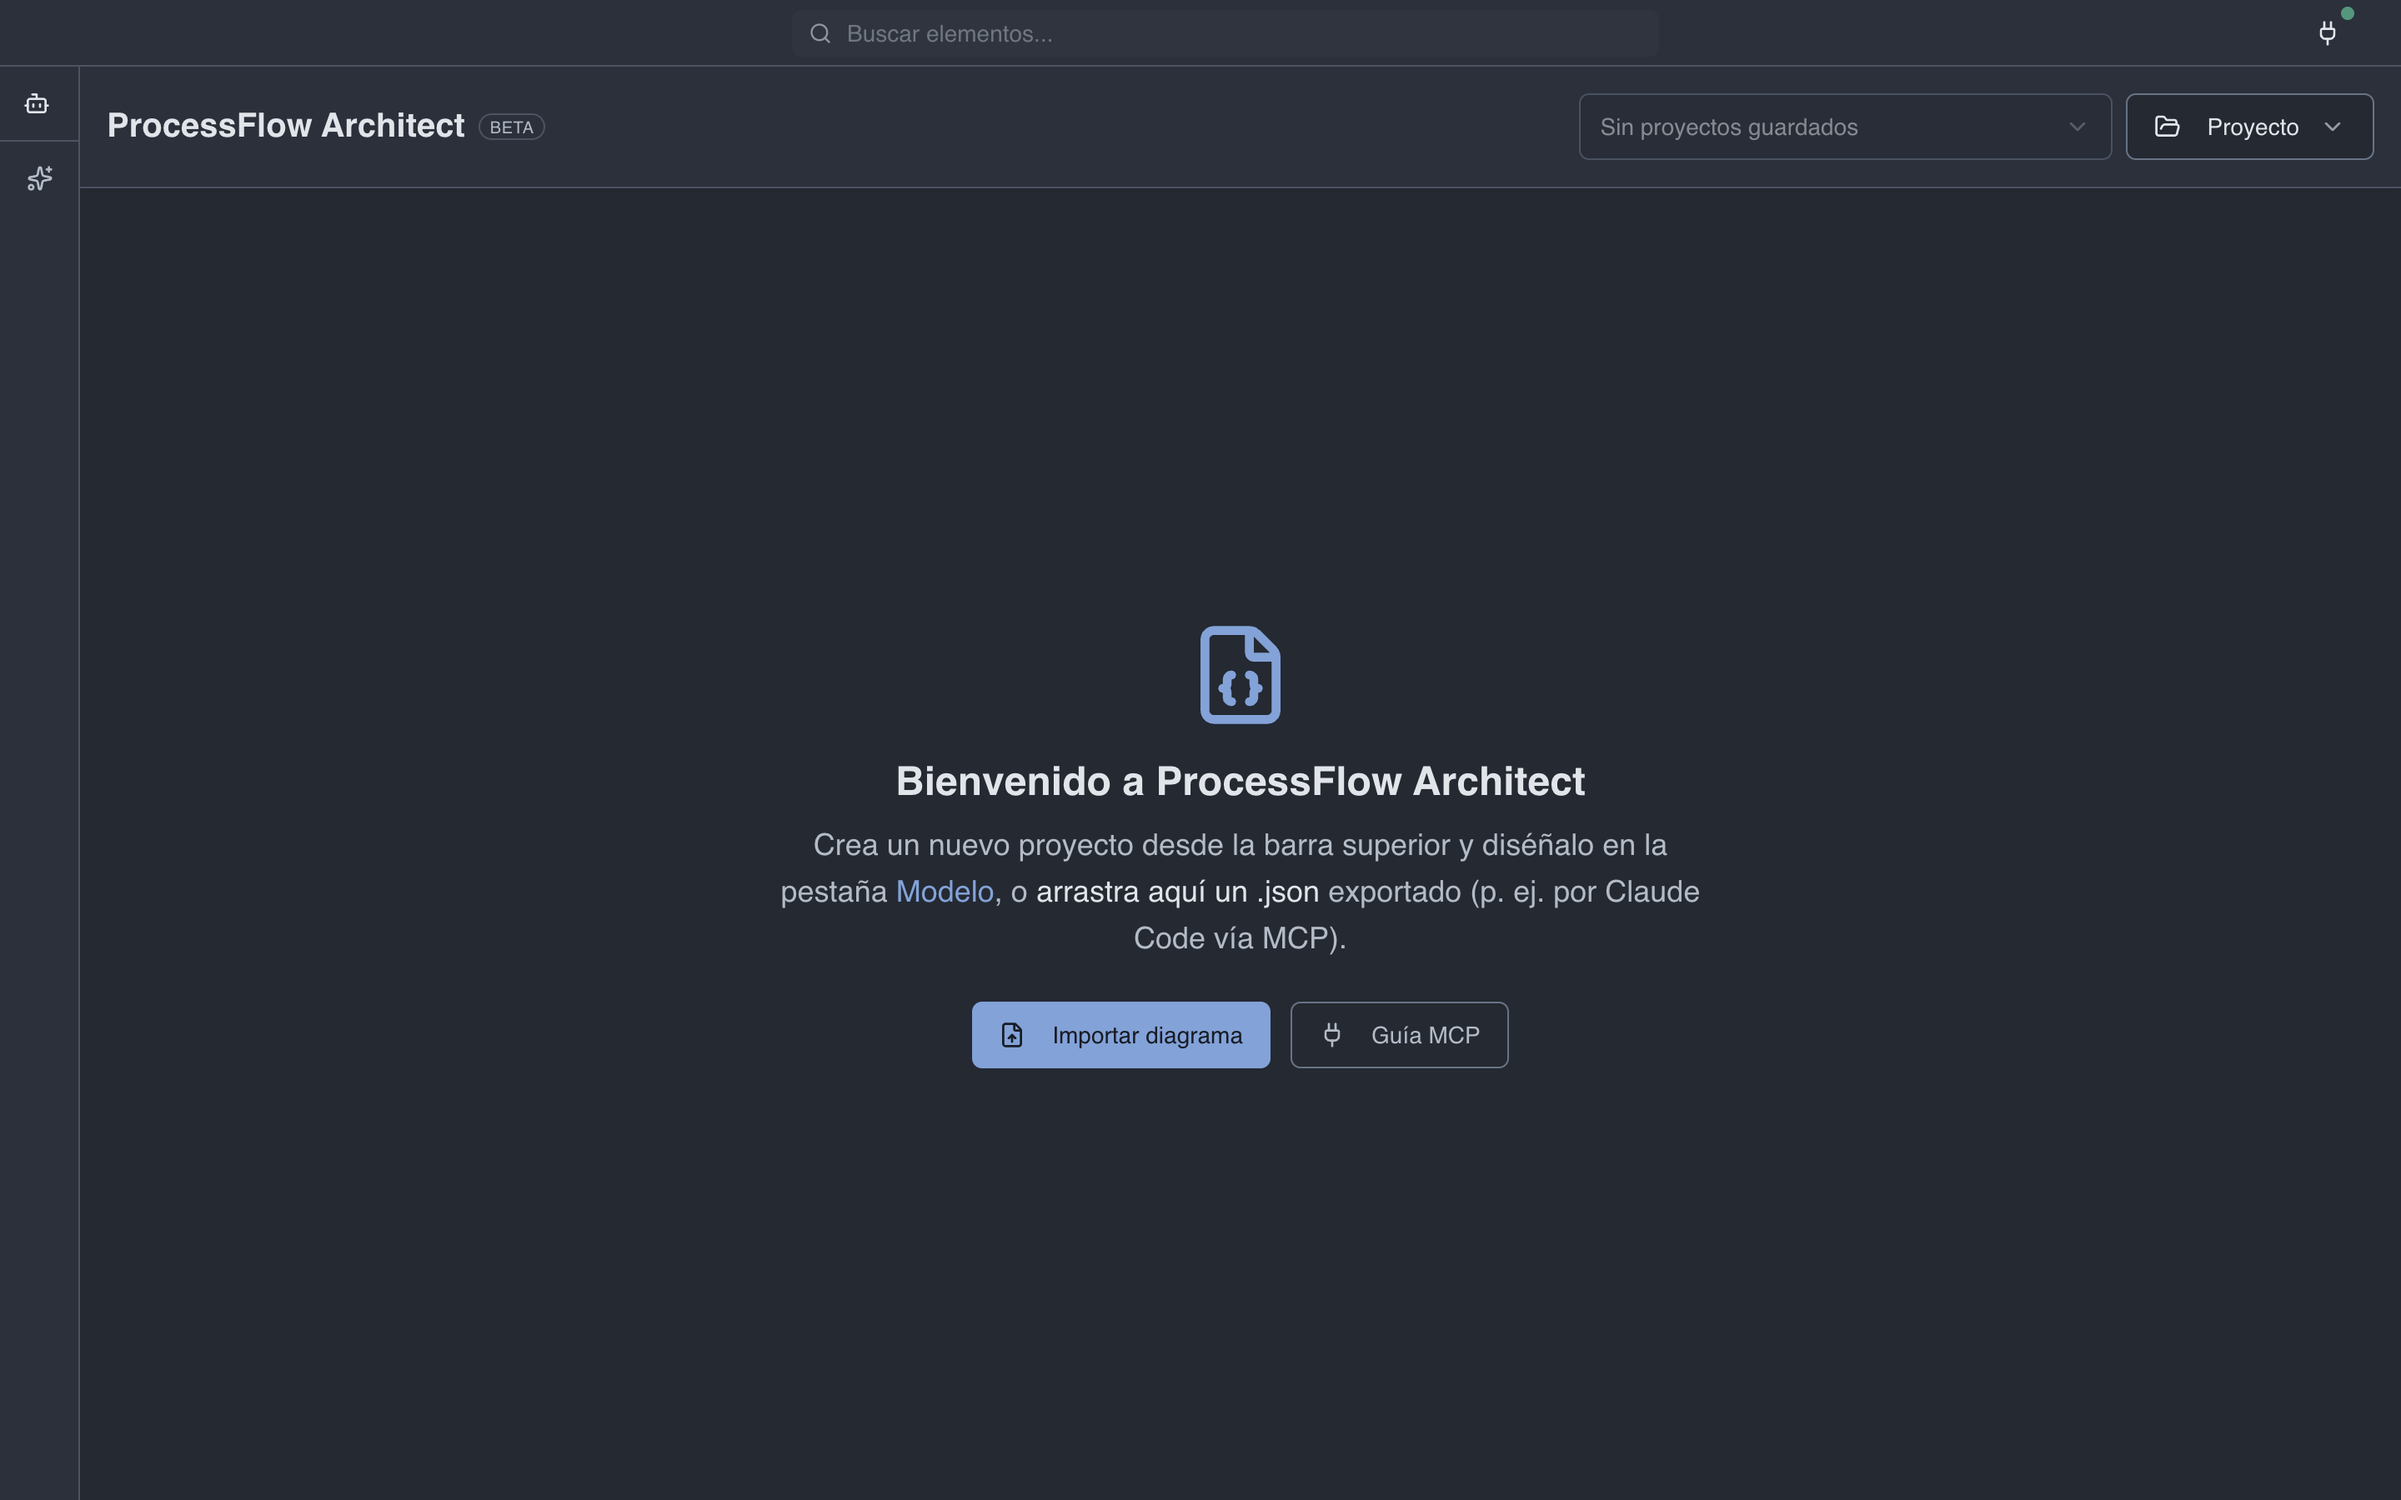
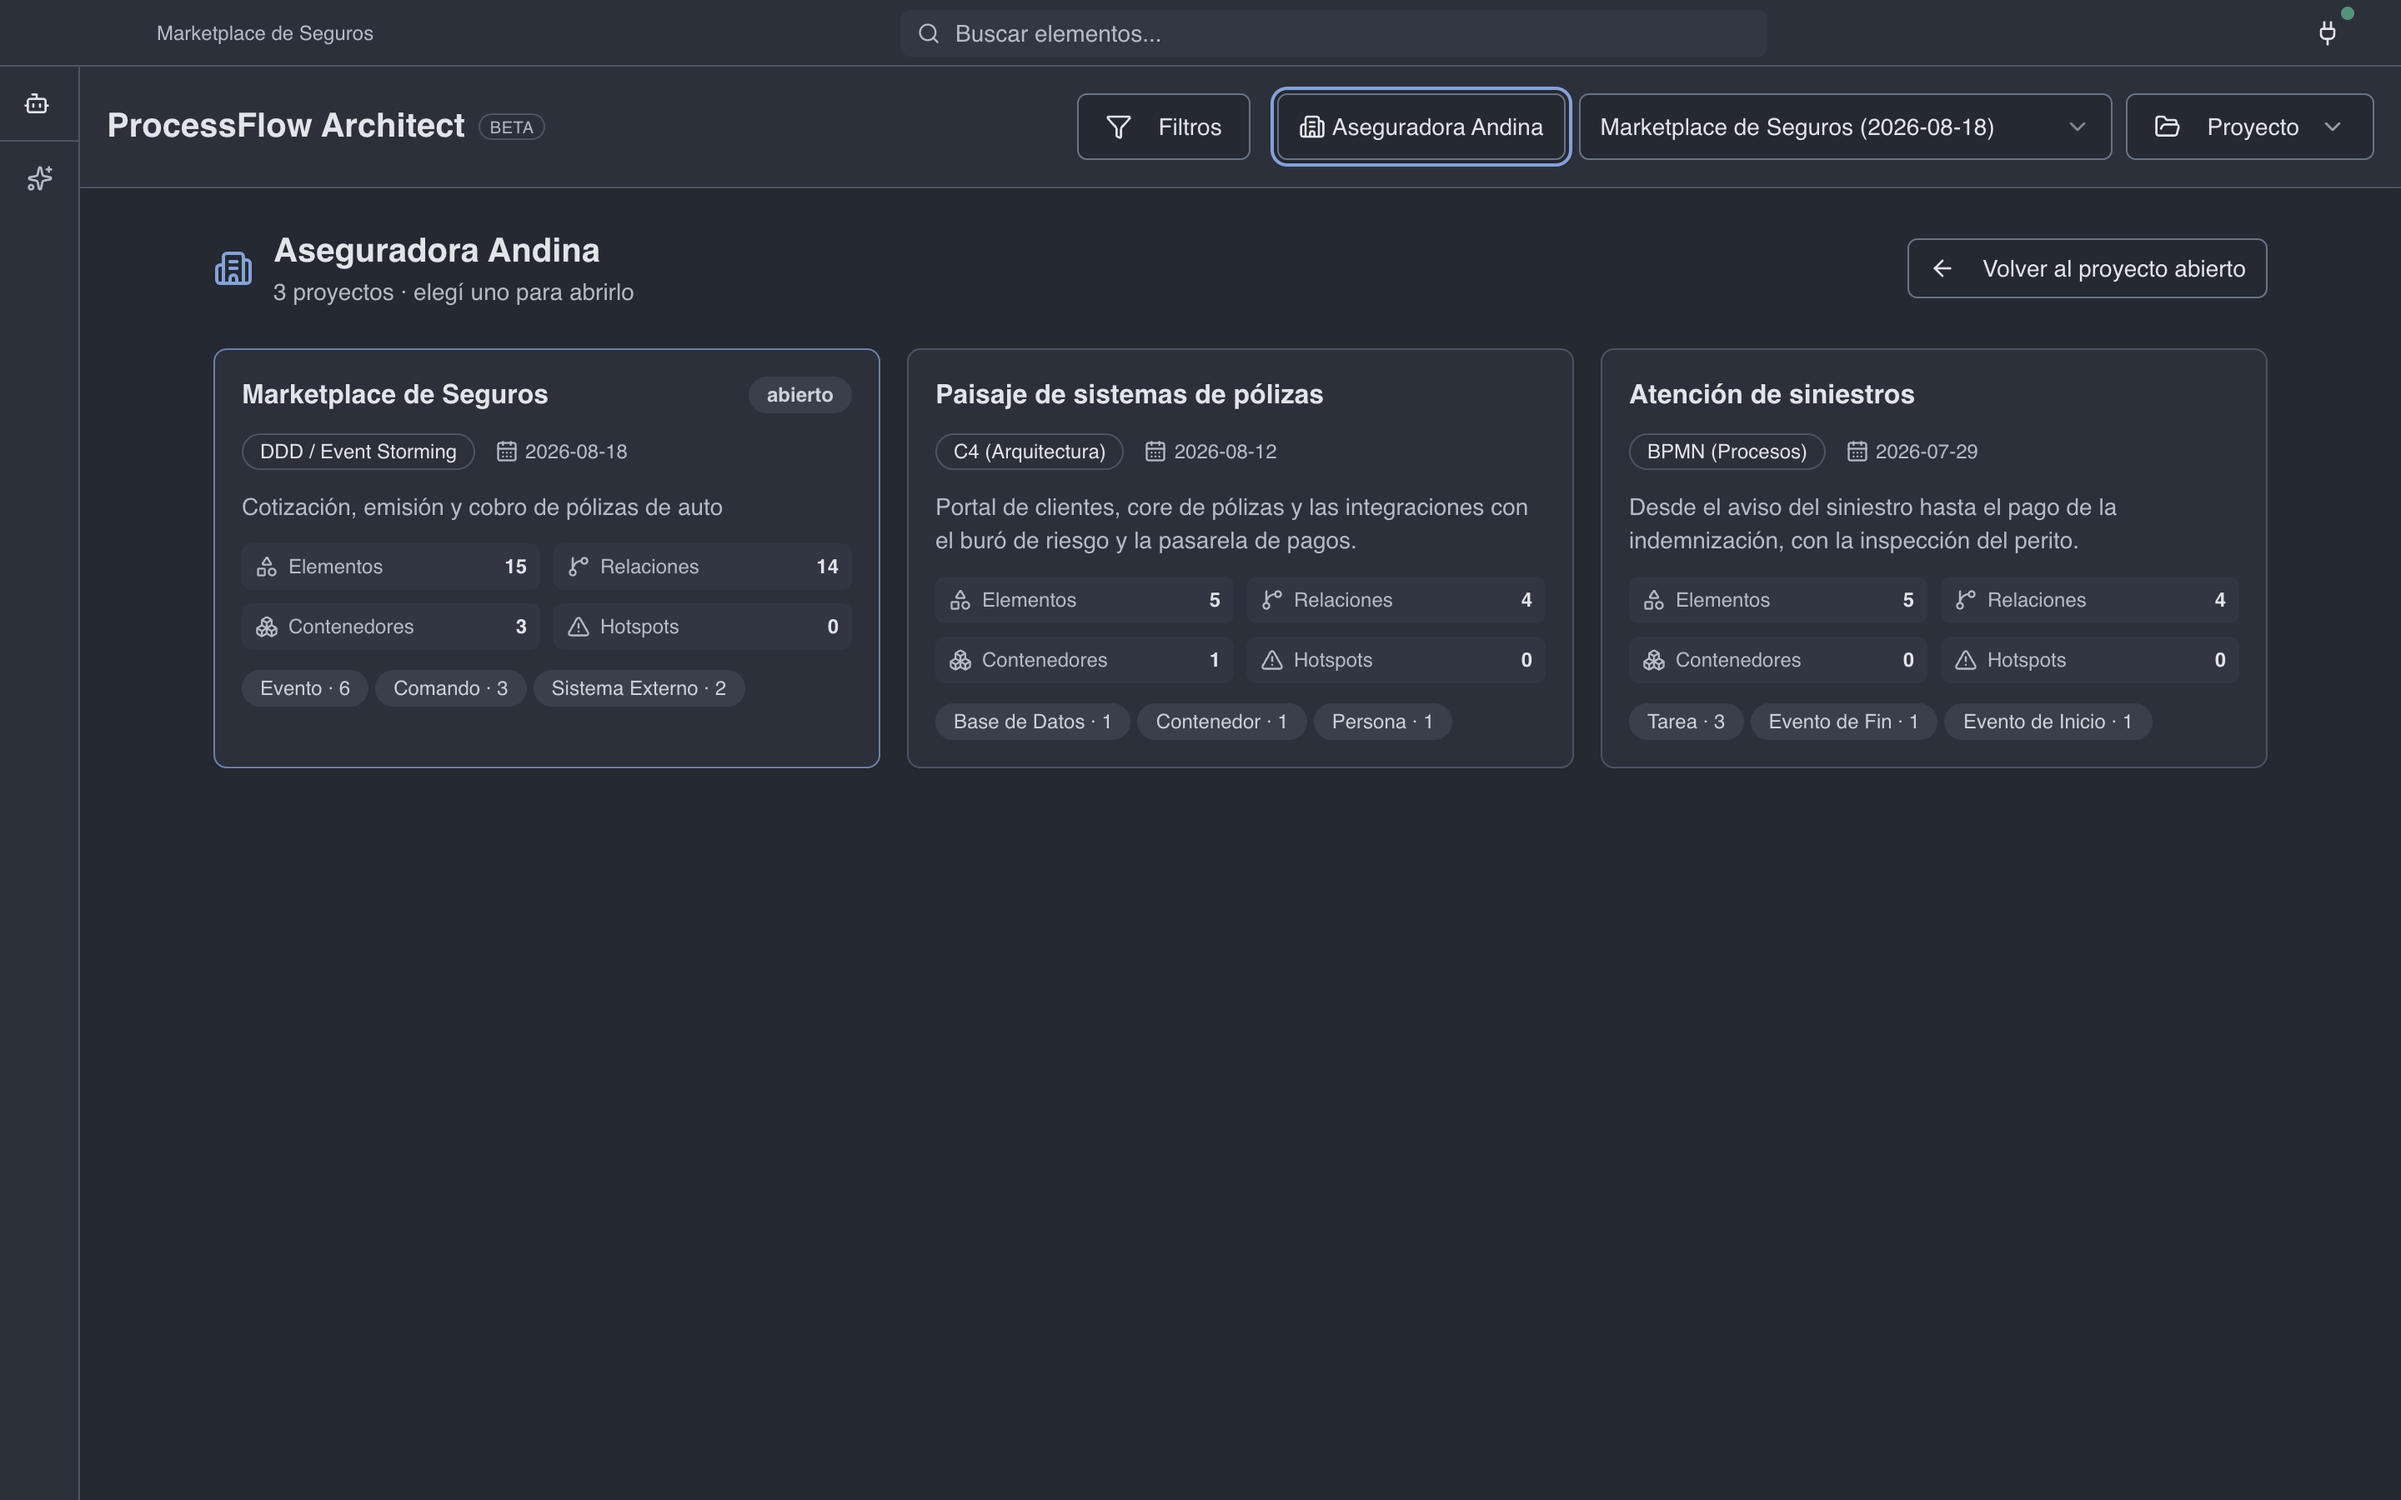
docs(site): capturas con la galería, la paleta y el modo Arnés
- 01-home: galería de una organización (antes, la bienvenida vacía).
- 02-canvas: la paleta queda a la vista, en dos columnas.
- 03-settings: Motor de IA en modo Arnés con los tres CLIs detectados.
- scripts/screenshots.ts siembra una organización con tres proyectos y
  simula agentCliStatus y mcpOrgsStatus en el doble de preload.

Refs #656

diff --git a/scripts/screenshots.ts b/scripts/screenshots.ts
@@ -134,6 +134,63 @@ function seedGraph(): GraphData {
   return toGraphData(layout(m, { strategy: "capas", density: "compacto" }));
 }
 
+/** Organización de ejemplo: la portada muestra su galería de proyectos. */
+const ORG = "aseguradora-andina";
+
+/**
+ * Proyectos hermanos del de ejemplo, para que la galería tenga qué comparar. Se
+ * arman con el mismo constructor; la geometría no importa (la tarjeta no la dibuja).
+ */
+function proyectosHermanos(): GraphData[] {
+  const armar = (
+    nombre_proyecto: string,
+    notation: "c4" | "bpmn",
+    descripcion: string,
+    fecha_analisis: string,
+    nodos: [string, string][],
+    contenedor?: string
+  ) => {
+    let m = emptyDiagram({ nombre_proyecto, notation, descripcion, fecha_analisis });
+    if (contenedor) m = addContainer(m, { nombre: contenedor.split("|")[0], tipo_elemento: contenedor.split("|")[1] }).model;
+    const ids = nodos.map(([nombre, tipo_elemento], i) => {
+      const r = addNode(m, { nombre, tipo_elemento, container: contenedor && i > 1 ? contenedor.split("|")[0] : undefined });
+      m = r.model;
+      return r.id;
+    });
+    for (let i = 1; i < ids.length; i++) m = addEdge(m, { fuente: ids[i - 1], destino: ids[i] });
+    return toGraphData(layout(m, { strategy: "capas", density: "compacto" }));
+  };
+  return [
+    armar(
+      "Paisaje de sistemas de pólizas",
+      "c4",
+      "Portal de clientes, core de pólizas y las integraciones con el buró de riesgo y la pasarela de pagos.",
+      "2026-08-12",
+      [
+        ["Asegurado", "Persona"],
+        ["Portal de clientes", "Sistema"],
+        ["API de pólizas", "Contenedor"],
+        ["Base de pólizas", "Base de Datos"],
+        ["Pasarela de pagos", "Sistema Externo"],
+      ],
+      "Core de pólizas|Límite de Sistema"
+    ),
+    armar(
+      "Atención de siniestros",
+      "bpmn",
+      "Desde el aviso del siniestro hasta el pago de la indemnización, con la inspección del perito.",
+      "2026-07-29",
+      [
+        ["Aviso de siniestro", "Evento de Inicio"],
+        ["Registrar reclamo", "Tarea"],
+        ["Inspección del perito", "Tarea"],
+        ["Liquidar indemnización", "Tarea"],
+        ["Indemnización pagada", "Evento de Fin"],
+      ]
+    ),
+  ];
+}
+
 // =============================================================================
 // 2 · Doble de `preload.ts` (lo que leen las pantallas que se capturan)
 // =============================================================================
@@ -209,6 +266,14 @@ const electronStubSource = () => `
       deleteAiKey: async () => ({ ok: true }),
       getAiKeyStatus: async () => ({}),
       remoteGenerate: async () => ({ ok: false, error: "sin llave" }),
+      // Los tres arneses instalados: Ajustes muestra su versión al elegir uno.
+      agentCliStatus: async () => [
+        { cli: "claude", installed: true, version: "2.1.293 (Claude Code)", loggedIn: true },
+        { cli: "codex", installed: true, version: "codex-cli 0.46.0" },
+        { cli: "agy", installed: true, version: "1.4.10" },
+      ],
+      agentCliGenerate: async () => ({ ok: true, text: "OK" }),
+      mcpOrgsStatus: async () => ({ pinned: null, orgs: [{ slug: "${ORG}", nombre: "Aseguradora Andina" }] }),
     };
     Object.defineProperty(window, "electronAPI", { value: api, configurable: true });
   })();
@@ -220,6 +285,8 @@ const seedStorageSource = (files: unknown) => `
     localStorage.setItem("saved_json_files", ${JSON.stringify(JSON.stringify(files))});
     localStorage.setItem("last_opened_file_id", "demo");
     localStorage.setItem("litert_model", "gemma-e4b");
+    // Motor en modo «Arnés» con Claude Code: es lo que muestra la captura de Ajustes.
+    localStorage.setItem("ai_remote_settings", JSON.stringify({ mode: "cli", provider: "gemini", models: {}, cli: "claude" }));
   })();
 `;
 
@@ -244,14 +311,18 @@ interface Shot {
   hero?: boolean;
   /** Agrupador: elige tipo y nodo principal para que se vea el paso 3. */
   merger?: boolean;
+  /** Portada: elige la organización en el chip para que el lienzo muestre su galería. */
+  galeria?: boolean;
+  /** Ajustes: lleva a la vista la tarjeta «Motor de IA». */
+  motor?: boolean;
 }
 
 const SHOTS: Shot[] = [
-  { file: "01-home.png", path: "/", seed: false, wait: 2500, listo: "Bienvenido a ProcessFlow Architect" },
+  { file: "01-home.png", path: "/", seed: true, wait: 2500, galeria: true, listo: "Leyenda" },
   { file: "02-canvas.png", path: "/", seed: true, wait: 4000, hero: true, listo: "Leyenda" },
   // «Descargado» sólo aparece con el stub del host funcionando: es la prueba
   // de que Ajustes ve los modelos y no cayó a «sólo en la app de escritorio».
-  { file: "03-settings.png", path: "/settings", seed: true, wait: 2500, listo: "Descargado" },
+  { file: "03-settings.png", path: "/settings", seed: true, wait: 2500, motor: true, listo: "Descargado" },
   { file: "04-mcp.png", path: "/mcp", seed: true, wait: 2500, listo: "MCP" },
   { file: "05-docs.png", path: "/docs", seed: true, wait: 2500, listo: "Documentación" },
   { file: "06-merger.png", path: "/merger", seed: true, wait: 2500, merger: true, listo: "Agrupador de Nodos" },
@@ -297,7 +368,10 @@ async function startDevServer(): Promise<ChildProcess> {
 async function main() {
   mkdirSync(OUT_DIR, { recursive: true });
   const content = seedGraph();
-  const savedFiles = [{ id: "demo", name: content.nombre_proyecto, content }];
+  const savedFiles = [
+    { id: "demo", name: content.nombre_proyecto, orgId: ORG, content },
+    ...proyectosHermanos().map((c, i) => ({ id: `demo-${i + 1}`, name: c.nombre_proyecto, orgId: ORG, content: c })),
+  ];
 
   const server = OWN_SERVER ? await startDevServer() : null;
   const browser = await puppeteer.launch({
@@ -322,6 +396,8 @@ async function main() {
 
       if (shot.merger) await prepararMerger(page);
       if (shot.hero) await prepararHero(page);
+      if (shot.galeria) await prepararGaleria(page);
+      if (shot.motor) await prepararMotor(page);
 
       await page.screenshot({ path: path.join(OUT_DIR, shot.file) as `${string}.png` });  // el tipo de puppeteer exige el literal .png
       console.log(`✔ ${shot.file}`);
@@ -334,16 +410,44 @@ async function main() {
   console.log(`\nCapturas en docs/screenshots/. Revisá el diff: el gate no juzga píxeles.`);
 }
 
-/** Hero = sólo el lienzo con el proyecto encuadrado. */
+/**
+ * Hero = el lienzo con el proyecto encuadrado y la paleta de la notación a la
+ * vista (en dos columnas: entra el grupo entero sin desplazarse).
+ */
 async function prepararHero(page: Page) {
-  await page.evaluate(() => {
-    document.querySelector("svg.lucide-panel-left-close")?.closest("button")?.click();
-  });
-  await esperar(800);
   await page.evaluate(() => {
     (document.querySelector('button[title="Ajustar a contenido"]') as HTMLElement | null)?.click();
   });
   await esperar(1200);
+}
+
+/**
+ * Portada = la galería de la organización. Se llega como el humano: abriendo el
+ * chip del header y eligiendo la organización (Radix necesita eventos reales).
+ */
+async function prepararGaleria(page: Page) {
+  await page.click('button[title^="Filtro de organización"]');
+  await esperar(500);
+  const items = await page.$$('[role="menuitem"]');
+  for (const it of items) {
+    const t = await it.evaluate((el) => el.textContent ?? "");
+    if (t.includes("Aseguradora Andina")) {
+      await it.click();
+      break;
+    }
+  }
+  await esperar(1500);
+  const hay = await page.evaluate(() => document.body.innerText.includes("elegí uno para abrirlo"));
+  if (!hay) throw new Error("01-home.png: la galería de la organización no apareció.");
+}
+
+/** Ajustes = la tarjeta «Motor de IA» arriba, con el selector del arnés entero. */
+async function prepararMotor(page: Page) {
+  await page.evaluate(() => {
+    const h = [...document.querySelectorAll("h3, div")].find((el) => el.textContent?.trim() === "Motor de IA");
+    h?.closest(".rounded-lg, [class*='card']")?.scrollIntoView({ block: "start" });
+  });
+  await esperar(800);
 }
 
 /**

diff --git a/site/index.html b/site/index.html
@@ -196,10 +196,11 @@
             Sin cuenta, sin espacio de trabajo remoto, sin sincronización que pedirle a nadie.
             Arrastrás un <code>.json</code> exportado por MCP y ya tenés modelo.
           </p>
+          <p class="detalle">Agrupalos por cliente: al elegir una organización ves cada proyecto en una tarjeta con su notación, su tamaño y de qué trata, sin abrirlo.</p>
           <a class="ampliar" href="img/01-home.png">Ver la captura a tamaño completo</a>
         </figcaption>
         <a class="marco" href="img/01-home.png" title="Abrir la captura a tamaño completo">
-          <img src="img/01-home.png" width="2880" height="1800" loading="lazy" alt="Pantalla de bienvenida con la lista de proyectos locales.">
+          <img src="img/01-home.png" width="2880" height="1800" loading="lazy" alt="Galería de una organización: cada proyecto en una tarjeta con notación, conteos y resumen.">
         </a>
       </figure>
 
@@ -267,12 +268,12 @@
         <li><span class="tilde">✓</span><span><b>Proyectos y modelo en tu disco</b>Archivos locales; ni cuenta, ni servidor, ni telemetría.</span></li>
         <li><span class="tilde">✓</span><span><b>Funciona en un avión</b>Descargás el modelo una vez y después no dependés de la red ni de una cuota de tokens.</span></li>
         <li><span class="tilde">✓</span><span><b>Respuestas en voz alta</b>El agente lee sus respuestas en español con Kokoro, una voz que corre en tu equipo: el modelo se baja una vez desde Ajustes.</span></li>
-        <li><span class="tilde">✓</span><span><b>Nube opcional y explícita</b>Modos local, híbrido o remoto con Gemini, OpenAI, Anthropic u OpenRouter; tu llave se guarda cifrada en tu equipo y nunca se muestra ni se registra.</span></li>
+        <li><span class="tilde">✓</span><span><b>Nube opcional y explícita</b>Modos local, híbrido o remoto con Gemini, OpenAI, Anthropic u OpenRouter; tu llave se guarda cifrada en tu equipo y nunca se muestra ni se registra. O el modo <b>Arnés</b>: razona tu Claude Code, Codex o Antigravity con tu sesión, sin llave en la app.</span></li>
         <li><span class="tilde">✓</span><span><b>Cerrada por defecto</b>Política de contenido que bloquea código y conexiones ajenas, y ningún permiso salvo el portapapeles: ni cámara, ni micrófono, ni ubicación. <a href="https://github.com/raalzate/processflow-architect/blob/main/SECURITY.md">Política de seguridad</a>.</span></li>
       </ul>
     </div>
     <a class="marco" href="img/03-settings.png" title="Abrir la captura a tamaño completo">
-      <img src="img/03-settings.png" width="2880" height="1800" loading="lazy" alt="Ajustes: descarga del modelo local, motor de IA y servidor MCP.">
+      <img src="img/03-settings.png" width="2880" height="1800" loading="lazy" alt="Ajustes: motor de IA en modo Arnés, con Claude Code, Codex y Antigravity detectados.">
     </a>
   </div>
 </section>

diff --git a/README.md b/README.md
@@ -93,7 +93,7 @@ Y en la app, la primera vez:
 
 | Bienvenida | Ajustes · IA local |
 |---|---|
-| ![Pantalla de bienvenida](docs/screenshots/01-home.png) | ![Ajustes: modelo, motor y servidor MCP](docs/screenshots/03-settings.png) |
+| ![Galería de proyectos de una organización](docs/screenshots/01-home.png) | ![Ajustes: motor de IA en modo Arnés](docs/screenshots/03-settings.png) |
 | **Guía MCP** | **Documentación in-app** |
 | ![Guía MCP para diseñar con Claude Code](docs/screenshots/04-mcp.png) | ![Documentación del diseñador](docs/screenshots/05-docs.png) |
 
